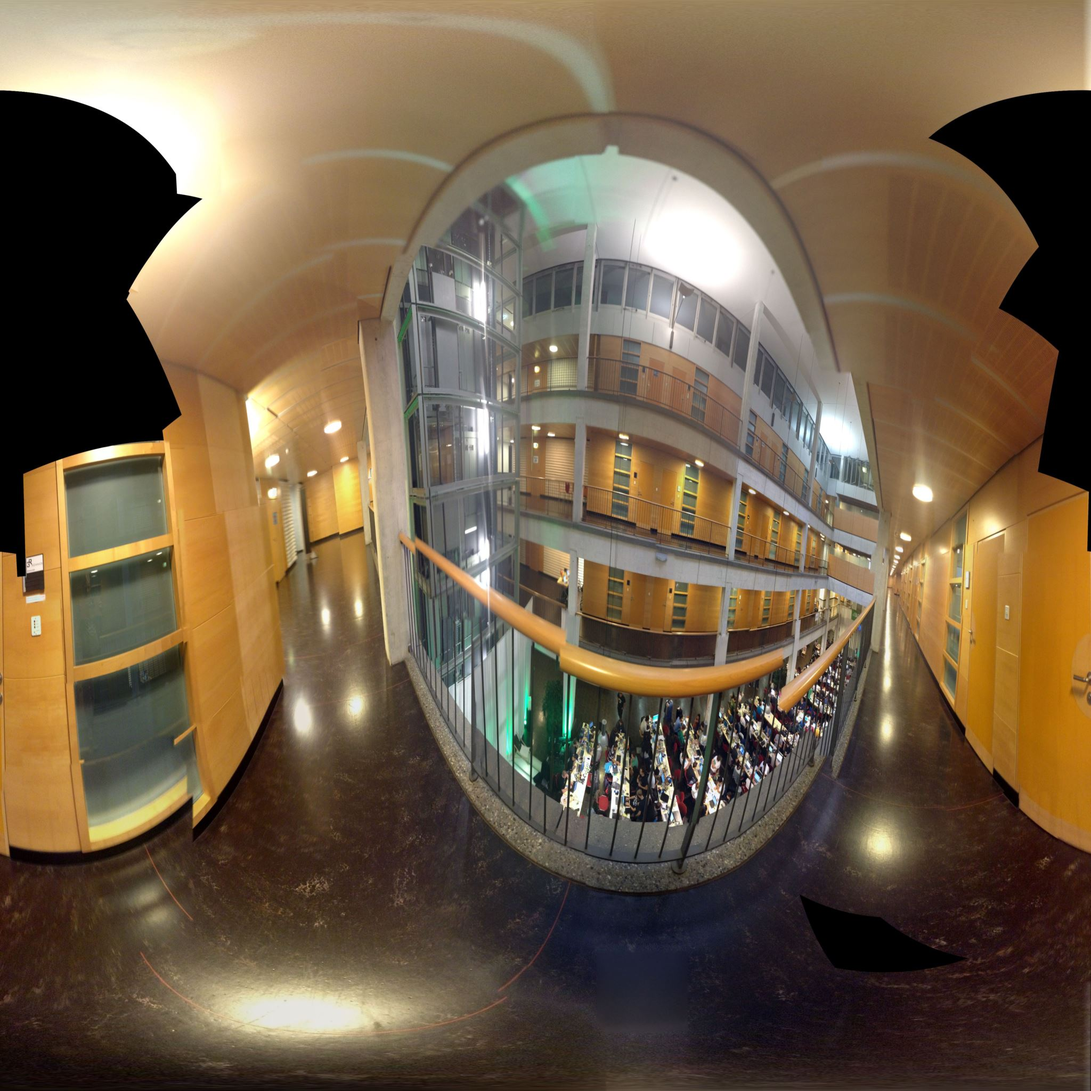
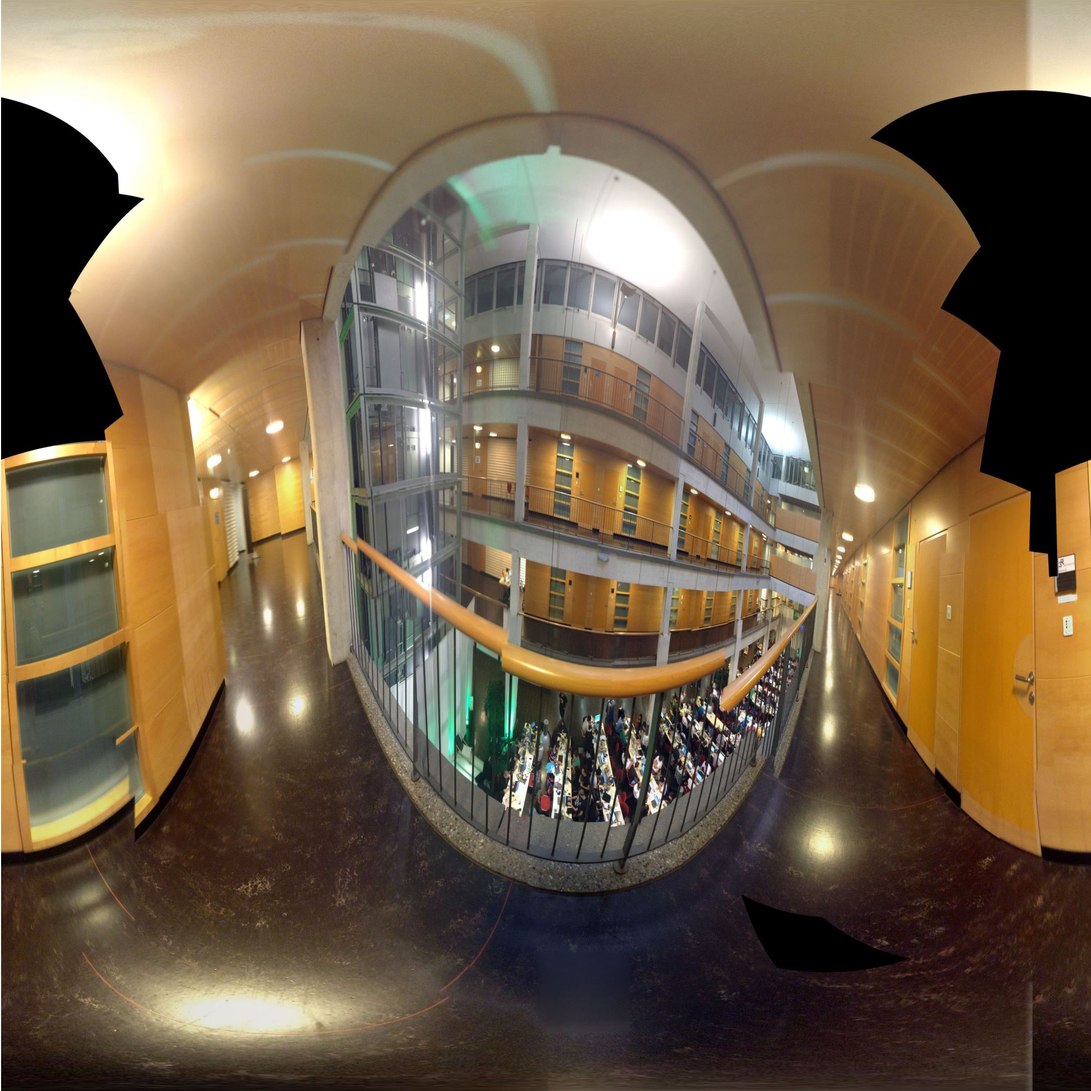
Added hall.

diff --git a/js/places.js b/js/places.js
@@ -43,5 +43,11 @@ var Places = {
 		right: "images/technoparknight/right.jpg",
 		name: "Technopark Night",
 		frames:[]
+	},
+	hall: {
+		left: "images/hall/left.jpg",
+		right: "images/hall/right.jpg",
+		name: "Strange Hall",
+		frames:[]
 	}
 }

diff --git a/js/index.js b/js/index.js
@@ -1,4 +1,4 @@
-var DEBUG = false;
+var DEBUG = true;
 
 var dpr = Math.min(window.devicePixelRatio || 1, 2);
 var width = window.innerWidth;
